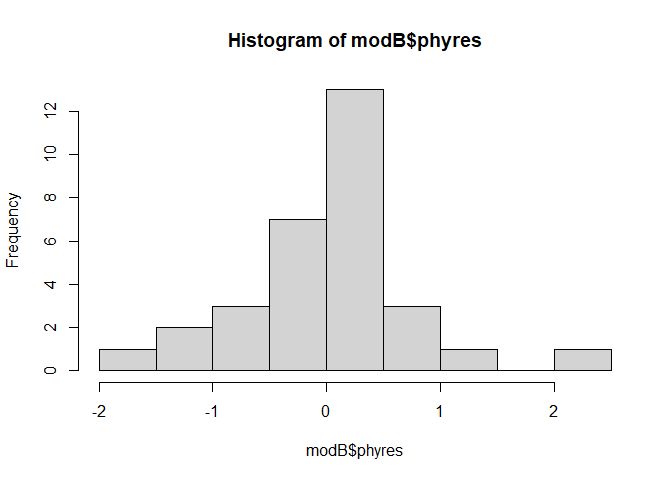
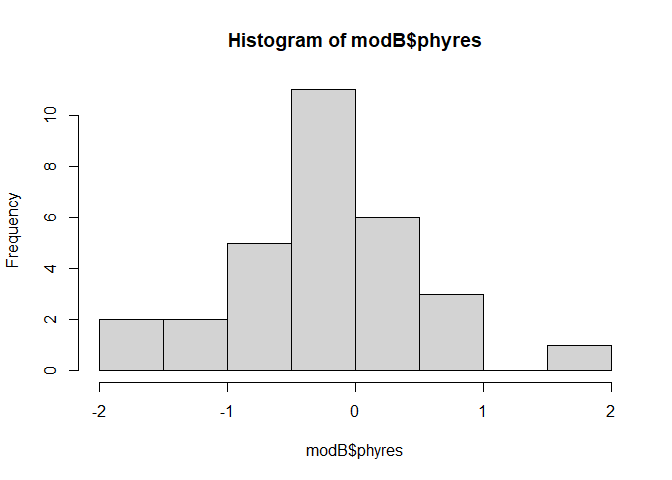
update pollen prod model to be ~LOG(diam), not ~diam, to match with the within-spp models for the sizenum tradeoff

diff --git a/anal-sizenum-PGLS.md b/anal-sizenum-PGLS.md
@@ -134,6 +134,9 @@ sizenum_sp <- sizenum %>%
 # sizenum_sp %>% group_by(Sex_sys, Species) %>% summarize(n=n()) %>% group_by(Sex_sys) %>%  summarize(n=n())
 # # sample size per species:
 # print(sizenum_sp %>% group_by(Sex_sys, Species) %>% summarize(N=N), n=Inf)
+
+sizenum_sp$Log_avg_pol_anth <- log(sizenum_sp$Avg_pol_anth)
+sizenum_sp$Log_avg_diam <- log(sizenum_sp$Avg_diam)
 ```
 
 The resulting dataset has 31 species.
@@ -328,10 +331,10 @@ test.data$dropped # "Setaria_viridis"
 ```
 
     ## $tips
-    ## [1] "Setaria_viridis"
+    ## [1] "Setaria_viridis"  "Bromus_carinatus"
     ## 
     ## $unmatched.rows
-    ## character(0)
+    ## [1] "Bromus_carianatus"
 
 ## Effect of sex system on pollen number
 
@@ -357,40 +360,40 @@ estimated using maximum likelihood.
 
 ``` r
 # fit the PGLS model:
-fullA <- pgls(Log_avg_pol_anth ~ Avg_diam + Sex_sys, dat=test.data, lambda="ML")
+fullA <- pgls(Log_avg_pol_anth ~ Log_avg_diam + Sex_sys, dat=test.data, lambda="ML")
 summary(fullA)
 ```
 
     ## 
     ## Call:
-    ## pgls(formula = Log_avg_pol_anth ~ Avg_diam + Sex_sys, data = test.data, 
+    ## pgls(formula = Log_avg_pol_anth ~ Log_avg_diam + Sex_sys, data = test.data, 
     ##     lambda = "ML")
     ## 
     ## Residuals:
     ##       Min        1Q    Median        3Q       Max 
-    ## -0.207734 -0.038010 -0.002005  0.030939  0.085092 
+    ## -0.094306 -0.036773  0.003997  0.043982  0.227550 
     ## 
     ## Branch length transformations:
     ## 
     ## kappa  [Fix]  : 1.000
     ## lambda [ ML]  : 0.000
     ##    lower bound : 0.000, p = 1    
-    ##    upper bound : 1.000, p = 2.3125e-07
-    ##    95.0% CI   : (NA, 0.957)
+    ##    upper bound : 1.000, p = 4.313e-07
+    ##    95.0% CI   : (NA, 0.950)
     ## delta  [Fix]  : 1.000
     ## 
     ## Coefficients:
-    ##                        Estimate Std. Error t value  Pr(>|t|)    
-    ## (Intercept)            6.536416   0.814189  8.0281 1.258e-08 ***
-    ## Avg_diam               0.073011   0.032934  2.2168  0.035244 *  
-    ## Sex_sysmonoecious     -1.801457   0.634164 -2.8407  0.008459 ** 
-    ## Sex_syshermaphroditic -0.921018   0.667097 -1.3806  0.178714    
+    ##                       Estimate Std. Error t value Pr(>|t|)  
+    ## (Intercept)            3.08831    2.77190  1.1141  0.27541  
+    ## Log_avg_diam           1.64830    0.93535  1.7622  0.08978 .
+    ## Sex_sysmonoecious     -1.83009    0.67070 -2.7286  0.01125 *
+    ## Sex_syshermaphroditic -0.91967    0.71346 -1.2890  0.20874  
     ## ---
     ## Signif. codes:  0 '***' 0.001 '**' 0.01 '*' 0.05 '.' 0.1 ' ' 1
     ## 
-    ## Residual standard error: 0.0665 on 27 degrees of freedom
-    ## Multiple R-squared: 0.4388,  Adjusted R-squared: 0.3765 
-    ## F-statistic: 7.038 on 3 and 27 DF,  p-value: 0.001206
+    ## Residual standard error: 0.06821 on 26 degrees of freedom
+    ## Multiple R-squared: 0.4005,  Adjusted R-squared: 0.3314 
+    ## F-statistic: 5.791 on 3 and 26 DF,  p-value: 0.003593
 
 ``` r
 # kable(summary(fullA)$coefficients)
@@ -399,11 +402,11 @@ summary(fullA)
 kable(anova(fullA))
 ```
 
-|           |  Df |    Sum Sq |   Mean Sq |  F value |   Pr(\>F) |
-|:----------|----:|----------:|----------:|---------:|----------:|
-| Avg_diam  |   1 | 0.0385005 | 0.0385005 | 8.707215 | 0.0064800 |
-| Sex_sys   |   2 | 0.0548542 | 0.0274271 | 6.202868 | 0.0060724 |
-| Residuals |  27 | 0.1193854 | 0.0044217 |       NA |        NA |
+|              |  Df |    Sum Sq |   Mean Sq |  F value |   Pr(\>F) |
+|:-------------|----:|----------:|----------:|---------:|----------:|
+| Log_avg_diam |   1 | 0.0233336 | 0.0233336 | 5.015327 | 0.0338954 |
+| Sex_sys      |   2 | 0.0574917 | 0.0287458 | 6.178631 | 0.0063773 |
+| Residuals    |  26 | 0.1209640 | 0.0046525 |       NA |        NA |
 
 The PGLS model showed that size and sex system both have a significant
 effect on pollen production at alpha=0.05.
@@ -432,7 +435,7 @@ hist(fullA$phyres) #looks pretty normal
 
 ``` r
 qqnorm(fullA$phyres) 
-qqline(fullA$phyres) #looks okay? deviates from the line at the extremes but is otherwise pretty close
+qqline(fullA$phyres) #looks okay? deviates from the line at the extremes, especially at the largest point, but is otherwise pretty close
 ```
 
 ![](anal-sizenum-PGLS_files/figure-gfm/unnamed-chunk-3-2.png)<!-- -->
@@ -488,56 +491,70 @@ sizenum_filt <- sizenum %>% group_by(Sex_sys, Species) %>%
 
 # sample size per species:
 # print(sizenum_filt %>% group_by(Sex_sys, Species) %>% summarize(N=n()), n=Inf)
+
+sizenum_filt$Log_avg_pol_anth <- log(sizenum_filt$Avg_pol_anth)
+sizenum_filt$Log_avg_diam <- log(sizenum_filt$Avg_diam)
 ```
 
 Fit the mixed effects model:
 
 ``` r
-prodsize_mixmod <- lmer(Log_avg_pol_anth ~ Avg_diam + Sex_sys + (1|Species), data = sizenum_filt)
+prodsize_mixmod <- lmer(Log_avg_pol_anth ~ Log_avg_diam + Sex_sys + (1|Species), data = sizenum_filt)
+# prodsize_mixmod <- lm(Log_avg_pol_anth ~ Avg_diam + Sex_sys/Species, data = sizenum_filt)
 summary(prodsize_mixmod)
 ```
 
     ## Linear mixed model fit by REML. t-tests use Satterthwaite's method [
     ## lmerModLmerTest]
-    ## Formula: Log_avg_pol_anth ~ Avg_diam + Sex_sys + (1 | Species)
+    ## Formula: Log_avg_pol_anth ~ Log_avg_diam + Sex_sys + (1 | Species)
     ##    Data: sizenum_filt
     ## 
-    ## REML criterion at convergence: 762.2
+    ## REML criterion at convergence: 755.4
     ## 
     ## Scaled residuals: 
     ##     Min      1Q  Median      3Q     Max 
-    ## -7.7618 -0.3686  0.1296  0.5547  2.1994 
+    ## -7.7769 -0.3682  0.1314  0.5487  2.1592 
     ## 
     ## Random effects:
     ##  Groups   Name        Variance Std.Dev.
-    ##  Species  (Intercept) 0.9825   0.9912  
+    ##  Species  (Intercept) 0.9723   0.9861  
     ##  Residual             0.1891   0.4349  
     ## Number of obs: 555, groups:  Species, 23
     ## 
     ## Fixed effects:
-    ##                        Estimate Std. Error        df t value Pr(>|t|)    
-    ## (Intercept)             8.35640    0.74395  23.41846  11.233 6.55e-11 ***
-    ## Avg_diam               -0.03017    0.01316 528.93722  -2.294   0.0222 *  
-    ## Sex_sysmonoecious      -1.24919    0.79032  19.39802  -1.581   0.1301    
-    ## Sex_syshermaphroditic   0.15755    0.76975  20.40128   0.205   0.8399    
+    ##                       Estimate Std. Error       df t value Pr(>|t|)    
+    ## (Intercept)            10.2452     1.2590 132.8012   8.138 2.54e-13 ***
+    ## Log_avg_diam           -0.8412     0.3606 527.2805  -2.333    0.020 *  
+    ## Sex_sysmonoecious      -1.1958     0.7885  19.7166  -1.517    0.145    
+    ## Sex_syshermaphroditic   0.2103     0.7699  20.9310   0.273    0.787    
     ## ---
     ## Signif. codes:  0 '***' 0.001 '**' 0.01 '*' 0.05 '.' 0.1 ' ' 1
     ## 
     ## Correlation of Fixed Effects:
-    ##             (Intr) Avg_dm Sx_sysm
-    ## Avg_diam    -0.323               
-    ## Sex_sysmncs -0.814 -0.089        
-    ## Sx_syshrmph -0.805 -0.187  0.831
+    ##             (Intr) Lg_vg_ Sx_sysm
+    ## Log_avg_dim -0.831               
+    ## Sex_sysmncs -0.397 -0.116        
+    ## Sx_syshrmph -0.329 -0.213  0.833
 
 ``` r
-# anova(prodsize_mixmod) # sig effects of diam and sex system
+anova(prodsize_mixmod) # sig effects of diam and sex system
+```
+
+    ## Type III Analysis of Variance Table with Satterthwaite's method
+    ##              Sum Sq Mean Sq NumDF  DenDF F value  Pr(>F)  
+    ## Log_avg_diam 1.0291 1.02907     1 527.28  5.4418 0.02004 *
+    ## Sex_sys      1.8896 0.94479     2  20.30  4.9961 0.01720 *
+    ## ---
+    ## Signif. codes:  0 '***' 0.001 '**' 0.01 '*' 0.05 '.' 0.1 ' ' 1
+
+``` r
 kable(anova(prodsize_mixmod))
 ```
 
-|          |    Sum Sq |   Mean Sq | NumDF |     DenDF |  F value |   Pr(\>F) |
-|:---------|----------:|----------:|------:|----------:|---------:|----------:|
-| Avg_diam | 0.9947776 | 0.9947776 |     1 | 528.93722 | 5.260481 | 0.0222062 |
-| Sex_sys  | 1.8828764 | 0.9414382 |     2 |  20.03011 | 4.978417 | 0.0175741 |
+|              |   Sum Sq |   Mean Sq | NumDF |     DenDF |  F value |   Pr(\>F) |
+|:-------------|---------:|----------:|------:|----------:|---------:|----------:|
+| Log_avg_diam | 1.029067 | 1.0290670 |     1 | 527.28046 | 5.441798 | 0.0200357 |
+| Sex_sys      | 1.889582 | 0.9447911 |     2 |  20.30107 | 4.996140 | 0.0172008 |
 
 Calculate marginal means, test for pairwise differences between sex
 systems.
@@ -548,11 +565,11 @@ systems.
 kable(emmeans(prodsize_mixmod , list(pairwise ~ Sex_sys), adjust = "tukey")$`pairwise differences of Sex_sys`)
 ```
 
-| 1                           |   estimate |        SE |       df |    t.ratio |   p.value |
-|:----------------------------|-----------:|----------:|---------:|-----------:|----------:|
-| dioecious - monoecious      |  1.2491908 | 0.7903667 | 20.12293 |  1.5805205 | 0.2767049 |
-| dioecious - hermaphroditic  | -0.1575501 | 0.7699458 | 21.16219 | -0.2046249 | 0.9772063 |
-| monoecious - hermaphroditic | -1.4067409 | 0.4537667 | 20.87215 | -3.1001411 | 0.0144373 |
+| 1                           |   estimate |        SE |       df |   t.ratio |   p.value |
+|:----------------------------|-----------:|----------:|---------:|----------:|----------:|
+| dioecious - monoecious      |  1.1958002 | 0.7885693 | 20.33431 |  1.516417 | 0.3043517 |
+| dioecious - hermaphroditic  | -0.2103318 | 0.7702033 | 21.58516 | -0.273086 | 0.9597996 |
+| monoecious - hermaphroditic | -1.4061320 | 0.4512358 | 20.83655 | -3.116180 | 0.0139479 |
 
 ``` r
 # plot(emmeans(prodsize_mixmod , ~Sex_sys))
@@ -657,38 +674,38 @@ summary(modB) # estimated lambda is 0.988, significantly diff from 0 but not 1.
     ## 
     ## Residuals:
     ##     Min      1Q  Median      3Q     Max 
-    ## -1.5590 -0.3541  0.0643  0.3781  2.0172 
+    ## -1.5679 -0.5797 -0.2496  0.1455  1.7935 
     ## 
     ## Branch length transformations:
     ## 
     ## kappa  [Fix]  : 1.000
     ## lambda [ ML]  : 0.988
-    ##    lower bound : 0.000, p = 0.010667
-    ##    upper bound : 1.000, p = 0.12322
-    ##    95.0% CI   : (0.710, NA)
+    ##    lower bound : 0.000, p = 0.032046
+    ##    upper bound : 1.000, p = 0.1278
+    ##    95.0% CI   : (0.568, NA)
     ## delta  [Fix]  : 1.000
     ## 
     ## Coefficients:
     ##                       Estimate Std. Error t value Pr(>|t|)   
-    ## (Intercept)            18.4517     5.1804  3.5618 0.001342 **
-    ## Sex_sysmonoecious       4.3052     4.5009  0.9565 0.346990   
-    ## Sex_syshermaphroditic   6.0936     5.9433  1.0253 0.313999   
+    ## (Intercept)            18.4528     5.2597  3.5083 0.001599 **
+    ## Sex_sysmonoecious       4.3058     4.5723  0.9417 0.354687   
+    ## Sex_syshermaphroditic   6.1017     6.0351  1.0110 0.320971   
     ## ---
     ## Signif. codes:  0 '***' 0.001 '**' 0.01 '*' 0.05 '.' 0.1 ' ' 1
     ## 
-    ## Residual standard error: 0.7481 on 28 degrees of freedom
-    ## Multiple R-squared: 0.0416,  Adjusted R-squared: -0.02686 
-    ## F-statistic: 0.6077 on 2 and 28 DF,  p-value: 0.5516
+    ## Residual standard error: 0.7594 on 27 degrees of freedom
+    ## Multiple R-squared: 0.04188, Adjusted R-squared: -0.0291 
+    ## F-statistic:  0.59 on 2 and 27 DF,  p-value: 0.5613
 
 ``` r
 # anova(modB) # no sig effect of sex system
 kable(anova(modB))
 ```
 
-|           |  Df |     Sum Sq |   Mean Sq |   F value |   Pr(\>F) |
-|:----------|----:|-----------:|----------:|----------:|----------:|
-| Sex_sys   |   2 |  0.6801802 | 0.3400901 | 0.6076744 | 0.5516421 |
-| Residuals |  28 | 15.6704369 | 0.5596585 |        NA |        NA |
+|           |  Df |    Sum Sq |   Mean Sq |   F value |   Pr(\>F) |
+|:----------|----:|----------:|----------:|----------:|----------:|
+| Sex_sys   |   2 |  0.680487 | 0.3402435 | 0.5900497 | 0.5612893 |
+| Residuals |  27 | 15.569154 | 0.5766353 |        NA |        NA |
 
 ``` r
 # take a look at the likelihood surface for lambda
@@ -728,6 +745,8 @@ the species-level data necessary for the PGLS.
 # print(sizenum_filt %>% group_by(Sex_sys, Species) %>% summarize(n=n()), n=Inf) 
 
 size_mixmod <- lmer(Avg_diam ~ Sex_sys + (1|Species), data = sizenum_filt)
+# size_mixmod <- lm(Avg_diam ~ Sex_sys + Sex_sys:Species, data = sizenum_filt)
+
 summary(size_mixmod)
 ```
 
@@ -815,7 +834,17 @@ kable(emmeans(size_mixmod , list(pairwise ~ Sex_sys), adjust = "tukey")$`pairwis
 ``` r
 # plot(emmeans(size_mixmod , ~Sex_sys))
 em_size <- emmeans(size_mixmod , ~Sex_sys) %>%  as.data.frame()
+sizenum_filt %>% group_by(Sex_sys) %>% 
+  summarize(m=mean(Avg_diam),
+            s=sd(Avg_diam))
 ```
+
+    ## # A tibble: 3 × 3
+    ##   Sex_sys            m     s
+    ##   <fct>          <dbl> <dbl>
+    ## 1 dioecious       18.2  1.81
+    ## 2 monoecious      23.7  2.39
+    ## 3 hermaphroditic  28.9  5.58
 
 Plot estimated marginal means for pollen size per sex system:
 
